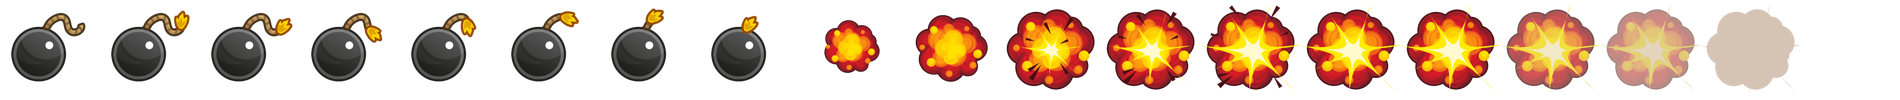
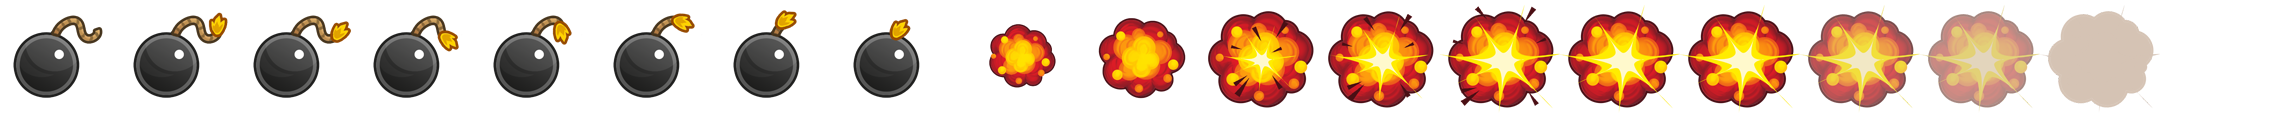
dynamic bomb animations and foreground layer test

Changed region(s): [[0.7453, 0.12, 0.7763, 0.15], [0.59, 0.12, 0.6211, 0.15], [0.2795, 0.24, 0.3105, 0.27]]

diff --git a/megafoxrun/src/net/megafoxhunt/entities/Bomb.java b/megafoxrun/src/net/megafoxhunt/entities/Bomb.java
@@ -7,7 +7,7 @@ import net.megafoxhunt.core.MyGdxGame;
 
 public class Bomb extends Entity{
 
-	private static final float EXPLOSION_SCALE = 0.45f;
+	private static final float EXPLOSION_SCALE = 0.25f;
 	
 	public Bomb(int id, float x, float y) {
 		super(id, x, y, MyGdxGame.resources.BOMB_ANIMATIONS);		
@@ -19,7 +19,7 @@ public class Bomb extends Entity{
 		currentFrame = animations[animationNumber].getKeyFrame(stateTime, true);
 		int frameIndex = (int) (stateTime / 0.125);
 		
-		if (frameIndex >= 13) shouldBeRemoved = true;
+		if (frameIndex >= 18) shouldBeRemoved = true;
 		if (shouldBeRemoved) return;
 		
 		if (frameIndex <= 8) { 

diff --git a/megafoxrun/src/net/megafoxhunt/core/GameResources.java b/megafoxrun/src/net/megafoxhunt/core/GameResources.java
@@ -61,7 +61,7 @@ public class GameResources {
 		 
 		 POWERRUP_ANIMATIONS[DEFAULT_ANIMATION] = generateAnimation(POWERRUP_TEXTURE, 0.025f, 1, 1);
 		 
-		 BOMB_ANIMATIONS[DEFAULT_ANIMATION] = generateAnimation(BOMB_TEXTURE, 0.125f, 0, 0, 100, 100 , 1, 13);
+		 BOMB_ANIMATIONS[DEFAULT_ANIMATION] = generateAnimation(BOMB_TEXTURE, 0.125f, 0, 0, 120, 120 , 1, 18);
 		 
 		 BERRY_ANIMATIONS[DEFAULT_ANIMATION] = generateAnimation(BERRY_TEXTURE, 0.042f, 0, 0, 64, 64 , 1, 20);
 		 HOLE_ANIMATIONS[DEFAULT_ANIMATION] = generateAnimation(HOLE_TEXTURE, 1f, 1, 1);

diff --git a/megafoxrun/src/net/megafoxhunt/screens/GameScreen.java b/megafoxrun/src/net/megafoxhunt/screens/GameScreen.java
@@ -89,7 +89,7 @@ public class GameScreen implements Screen {
 		
 		// DRAW MAP
         renderer.setView(camera);
-        renderer.render();
+        renderer.render(new int[] {0});
 		
 		// INIT BATCH
 		Batch batch = renderer.getSpriteBatch();
@@ -116,6 +116,8 @@ public class GameScreen implements Screen {
         
         batch.end();
         
+        
+        renderer.render(new int[] {1});
         
         // DRAW JOYSTICK AND FPS
         spriteBatch.begin();

diff --git a/megafoxhunt-server/src/net/megafox/items/Bomb.java b/megafoxhunt-server/src/net/megafox/items/Bomb.java
@@ -60,7 +60,7 @@ public class Bomb extends Item{
 	}
 	class BombExplodeTimerTask extends TimerTask {
 		
-		private static final int EXPLODE_DELAY = 1300;
+		private static final int EXPLODE_DELAY = 2000;
 
 		private net.megafox.entities.Bomb bomb;
 		
